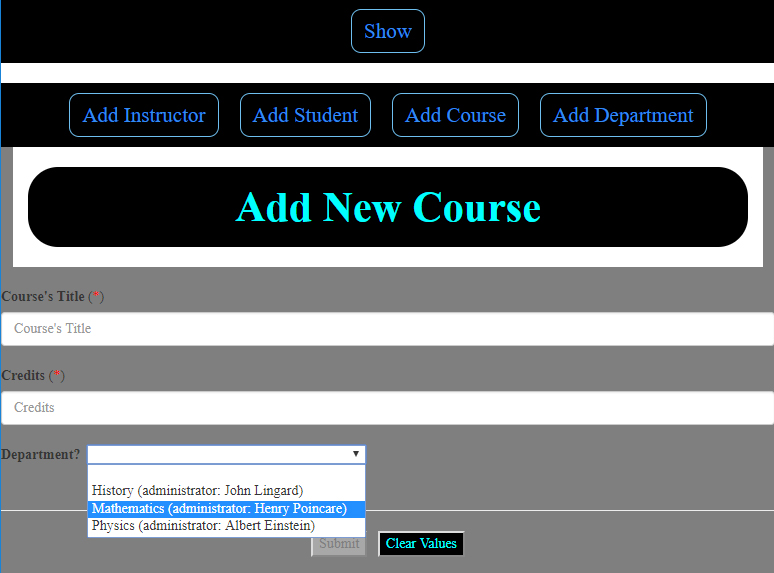
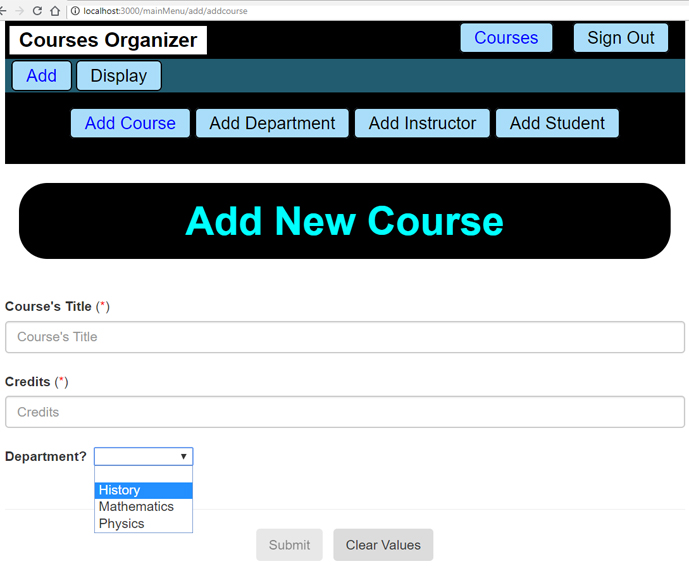
Done!

diff --git a/client/src/components/courses_organizer/DisplayStudentsComponent.js b/client/src/components/courses_organizer/DisplayStudentsComponent.js
@@ -6,49 +6,57 @@ import '../../style.scss'
 import actions from "../../actions/courses_organizer/courseAction"
 import cst from '../../constants/courses_organizer/cst'
 
+import DisplayAStudentComponent from './DisplayAStudentComponent'
+
 class DisplayStudentsComponent extends React.Component {
     constructor(props) {
         super(props)
         this.props.setStatus(cst.GET_STUDENTS)
     }
 
-    showAStudent(id){
+    showAStudent(id) {
         this.props.getAStudent(id)
-        this.props.history.push('mainMenu/display/a_student')
     }
-    
+
     render() {
-        const { data, getAStudent, deleteAStudent } = this.props
+        const { data, getAStudent, deleteAStudent, isList } = this.props
 
         return (
             <div>
-                <table align="center"><tbody>
-                    <tr><th align="center"><h3 align="center"><font color="blue"><b>Students</b></font></h3></th></tr>
-                    {data.map((d, index) =>
-                        <tr key={index}><td style={{ 'backgroundColor': 'white', 'color': 'black', 'padding': '20px', 'borderRadius': '20px' }}>
-                            <div onClick={e => { this.showAStudent(d.id, getAStudent) }} className="relative">
-                                <h3 align="center" className="centeredChapterTitle"><font color="blue"><b>Student (id: {d.id})</b></font></h3>
-                                <button type="button" className="btnDelete" onClick={e => {
-                                    e.preventDefault()
-                                    deleteAStudent(d.id)
-                                }}>x</button>
-                                <b><u>Name</u></b>: {d.fName} {d.lName}<br />
-                                {d.courses.length === 1 &&
-                                    <span><b><u>Course</u></b>: {d.courses[0].title} (Dpt: {d.courses[0].department.name}, type: {d.courses[0].isOnsite ? "Onsite" : "Online"})</span>
-                                }
-                                {d.courses.length > 1 &&
-                                    <div>
-                                        <ul>
-                                            {d.courses.map((e, index) =>
-                                                <li key={index}><b><u>Course</u></b>: {e.title} (Dpt: {e.department.name}, type: {e.isOnsite ? "Onsite" : "Online"})</li>
-                                            )}
-                                        </ul>
-                                    </div>
-                                }
-                            </div>
-                        </td></tr>
-                    )}
-                </tbody></table>
+                {isList &&
+                    <table align="center"><tbody>
+                        <tr><th align="center"><h3 align="center"><font color="blue"><b>Students</b></font></h3></th></tr>
+                        {data.map((d, index) =>
+                            <tr key={index}><td style={{ 'backgroundColor': 'white', 'color': 'black', 'padding': '20px', 'borderRadius': '20px' }}>
+                                <div onClick={e => { this.showAStudent(d.id, getAStudent) }} className="relative">
+                                    <h3 align="center" className="centeredChapterTitle"><font color="blue"><b>Student (id: {d.id})</b></font></h3>
+                                    <button type="button" className="btnDelete" onClick={e => {
+                                        e.preventDefault()
+                                        deleteAStudent(d.id)
+                                    }}>x</button>
+                                    <b><u>Name</u></b>: {d.fName} {d.lName}<br />
+                                    {d.courses.length === 1 &&
+                                        <span><b><u>Course</u></b>: {d.courses[0].title} (Dpt: {d.courses[0].department.name}, type: {d.courses[0].isOnsite ? "Onsite" : "Online"})</span>
+                                    }
+                                    {d.courses.length > 1 &&
+                                        <div>
+                                            <ul>
+                                                {d.courses.map((e, index) =>
+                                                    <li key={index}><b><u>Course</u></b>: {e.title} (Dpt: {e.department.name}, type: {e.isOnsite ? "Onsite" : "Online"})</li>
+                                                )}
+                                            </ul>
+                                        </div>
+                                    }
+                                </div>
+                            </td></tr>
+                        )}
+                    </tbody></table>
+                }
+                {!isList &&
+                    <div>
+                        <DisplayAStudentComponent />
+                    </div>
+                }
                 <br /><br />
             </div>)
     }

diff --git a/client/src/reducers/courses_organizer/departments.js b/client/src/reducers/courses_organizer/departments.js
@@ -2,59 +2,27 @@ import cst from '../../constants/courses_organizer/cst'
 
 const initialStates = {
     data: [],
-    status: "",
+    isList: true
 }
 
 const departments = (state = initialStates, action) => {
     switch (action.type) {
-        case cst.ADD_DEPARTMENT: {
-            return Object.assign({}, state, {
-                status: action.type
-            })
-        }
-
-        case cst.ADD_DEPARTMENT_SUCCESS: {
-            return Object.assign({}, state, {
-                status: action.type
-            })
-        }
-
-        case cst.GET_DEPARTMENT_BY_ID: {
-            return Object.assign({}, state, {
-                status: action.type
-            })
-        }
-
         case cst.GET_DEPARTMENT_BY_ID_SUCCESS: {
             return Object.assign({}, state, {
-                data: action.payload,
-                status: action.type
-            })
-        }
-
-        case cst.GET_DEPARTMENTS: {
-            return Object.assign({}, state, {
-                status: action.type
+                data: action.payload
             })
         }
 
         case cst.GET_DEPARTMENTS_SUCCESS: {
             return Object.assign({}, state, {
                 data: action.payload,
-                status: action.type
-            })
-        }
-
-        case cst.DELETE_DPT: {
-            return Object.assign({}, state, {
-                status: action.type
+                isList: true
             })
         }
 
         case cst.DELETE_DPT_SUCCESS: {
             return Object.assign({}, state, {
                 data: action.payload,
-                status: action.type
             })
         }
         default:

diff --git a/client/src/components/courses_organizer/AddCourseComponent.js b/client/src/components/courses_organizer/AddCourseComponent.js
@@ -5,6 +5,7 @@ import { connect } from 'react-redux'
 import { compose } from 'redux'
 import actions from '../../actions/courses_organizer/courseAction'
 import requireAuth from '../../components/requireAuth';
+import cst from '../../constants/courses_organizer/cst'
 
 import '../../style.scss'
 
@@ -20,6 +21,10 @@ const validate = values => {
 }
 
 class AddCourseComponent extends React.Component {
+    constructor(props) {
+        super(props)
+        this.props.setStatus(cst.ADD_COURSE)
+    }
 
     render() {
         const { handleSubmit, invalid, submitting, reset, addCourse, dpt } = this.props
@@ -48,7 +53,7 @@ class AddCourseComponent extends React.Component {
                 <Field name="departmentId" component="select">
                             <option></option>
                             {dpt.map((a, index) =>
-                                <option key={index} value={a.id}>{a.name} (administrator: {a.administrator}) </option>
+                                <option key={index} value={a.id}>{a.name}</option>
                             )}
                         </Field>
                     </div>
@@ -63,7 +68,7 @@ class AddCourseComponent extends React.Component {
 }
 
 const mapStateToProps = (state) => ({
-    dpt: state.courses.data,
+    dpt: state.departments.data,
 })
 
 // Reset the form after submission

diff --git a/client/src/components/courses_organizer/DisplayAStudentComponent.js b/client/src/components/courses_organizer/DisplayAStudentComponent.js
@@ -22,8 +22,8 @@ class DisplayAStudentComponent extends React.Component {
                         </div>
                         <b><u>Name</u></b>: {student.fName} {student.lName}<br />
                         <ul>
-                            {student.courses.map(aCourse =>
-                                <li key={aCourse.id}>
+                            {student.courses.map((aCourse, index) =>
+                                <li key={index}>
                                     <b><u>Course</u></b>: {aCourse.title}<br />
                                     <b><u>Department</u></b>: {aCourse.department.name} (administrator: {aCourse.department.administrator})<br />
                                     {aCourse.isOnsite &&
@@ -51,15 +51,8 @@ class DisplayAStudentComponent extends React.Component {
     }
 }
 
[1 lines of base64/hex data omitted]
-const showAStudent = (state) => {
-    console.log("DisplayAStudentComponent, state: " + JSON.stringify(state.students.data, null, 5))
-    return state.students.data[0]
-}
-
 const mapStateToProps = (state) => ({
-    data: showAStudent(state),
-    // data: state.students.data[0],
+    student: state.students.data[0],
 })
 
 export default connect(mapStateToProps, actions)(requireAuth(DisplayAStudentComponent))

diff --git a/client/src/components/courses_organizer/DisplayUIComponent.js b/client/src/components/courses_organizer/DisplayUIComponent.js
@@ -7,10 +7,6 @@ import DisplayCoursesComponent from './DisplayCoursesComponent'
 import DisplayInstructorsComponent from './DisplayInstructorsComponent'
 import DisplayStudentsComponent from './DisplayStudentsComponent'
 
-import DisplayACourseComponent from './DisplayACourseComponent'
-import DisplayAInstructorComponent from './DisplayAInstructorComponent'
-import DisplayAStudentComponent from './DisplayAStudentComponent'
-
 class DisplayUIComponent extends React.Component {
     render() {
         const { match } = this.props
@@ -29,10 +25,6 @@ class DisplayUIComponent extends React.Component {
                 <Route path={`${match.url}/courses`} exact component={DisplayCoursesComponent} />
                 <Route path={`${match.url}/instructors`} exact component={DisplayInstructorsComponent} />
                 <Route path={`${match.url}/students`} exact component={DisplayStudentsComponent} />
-                
-                <Route path={`${match.url}/display/a_course`} exact component={DisplayACourseComponent} />
-                <Route path={`${match.url}/display/a_instructor`} exact component={DisplayAInstructorComponent} />
-                <Route path={`${match.url}/display/a_student`} exact component={DisplayAStudentComponent} />
             </div>
         )
     }

diff --git a/client/src/reducers/courses_organizer/courses.js b/client/src/reducers/courses_organizer/courses.js
@@ -10,12 +10,14 @@ const courses = (state = initialStates, action) => {
         case cst.GET_COURSE_BY_ID_SUCCESS: {
             return Object.assign({}, state, {
                 data: state.data.filter(a => a.courseId === action.payload ? a : null),
+                isList: false
             })
         }
 
         case cst.GET_COURSES_SUCCESS: {
             return Object.assign({}, state, {
                 data: action.payload,
+                isList: true
             })
         }
 
@@ -28,12 +30,14 @@ const courses = (state = initialStates, action) => {
         case cst.DELETE_COURSE: {
             return Object.assign({}, state, {
                 data: state.data.filter(a => a.id !== action.payload ? a : null),
+                isList: true
             })
         }
 
         case cst.DELETE_COURSE_SUCCESS: {
             return Object.assign({}, state, {
                 data: state.data.filter(a => a.courseId !== action.payload ? a : null),
+                isList: true
             })
         }
         

diff --git a/client/src/reducers/courses_organizer/instructors.js b/client/src/reducers/courses_organizer/instructors.js
@@ -10,19 +10,21 @@ const instructors = (state = initialStates, action) => {
         case cst.ADD_INSTRUCTOR_COURSE_SUCCESS: {
             return Object.assign({}, state, {
                 data: action.payload,
-                status: action.type
+                isList: false
             })
         }
 
         case cst.GET_INSTRUCTOR_BY_ID_SUCCESS: {
             return Object.assign({}, state, {
                 data: state.data.filter(a => a.id === action.payload ? a : null),
+                isList: false
             })
         }
 
         case cst.GET_INSTRUCTORS_SUCCESS: {
             return Object.assign({}, state, {
                 data: action.payload,
+                isList: true
             })
         }
 

diff --git a/client/src/reducers/courses_organizer/students.js b/client/src/reducers/courses_organizer/students.js
@@ -10,18 +10,21 @@ const students = (state = initialStates, action) => {
         case cst.ADD_STUDENT_COURSE_SUCCESS: {
             return Object.assign({}, state, {
                 data: action.payload,
+
             })
         }
 
         case cst.GET_STUDENT_BY_ID_SUCCESS: {
             return Object.assign({}, state, {
                 data: state.data.filter(a => a.id === action.payload ? a : null),
+                isList: false
             })
         }
 
         case cst.GET_STUDENTS_SUCCESS: {
             return Object.assign({}, state, {
                 data: action.payload,
+                isList: true
             })
         }
 

diff --git a/client/src/components/courses_organizer/DisplayInstructorsComponent.js b/client/src/components/courses_organizer/DisplayInstructorsComponent.js
@@ -14,12 +14,13 @@ class DisplayInstructorsComponent extends React.Component {
         this.props.setStatus(cst.GET_INSTRUCTORS)
     }
 
+    showAnInstructor = (id) => {
+        this.props.getAnInstructor(id)
+    }
+    
     render() {
         const { data, deleteAnInstructor, isList } = this.props
 
-        showAnInstructor = (id) => {
-            this.props.getAnInstructor(id)
-        }
 
         return (
             <div>

diff --git a/client/src/actions/courses_organizer/courseAction.js b/client/src/actions/courses_organizer/courseAction.js
@@ -312,7 +312,7 @@ const reservationAction = {
                                 })
                             }
                             dispatch({
-                                type: actionStatus,
+                                type: cst.GET_DEPARTMENTS_SUCCESS,
                                 payload: obj
                             })
                         }
